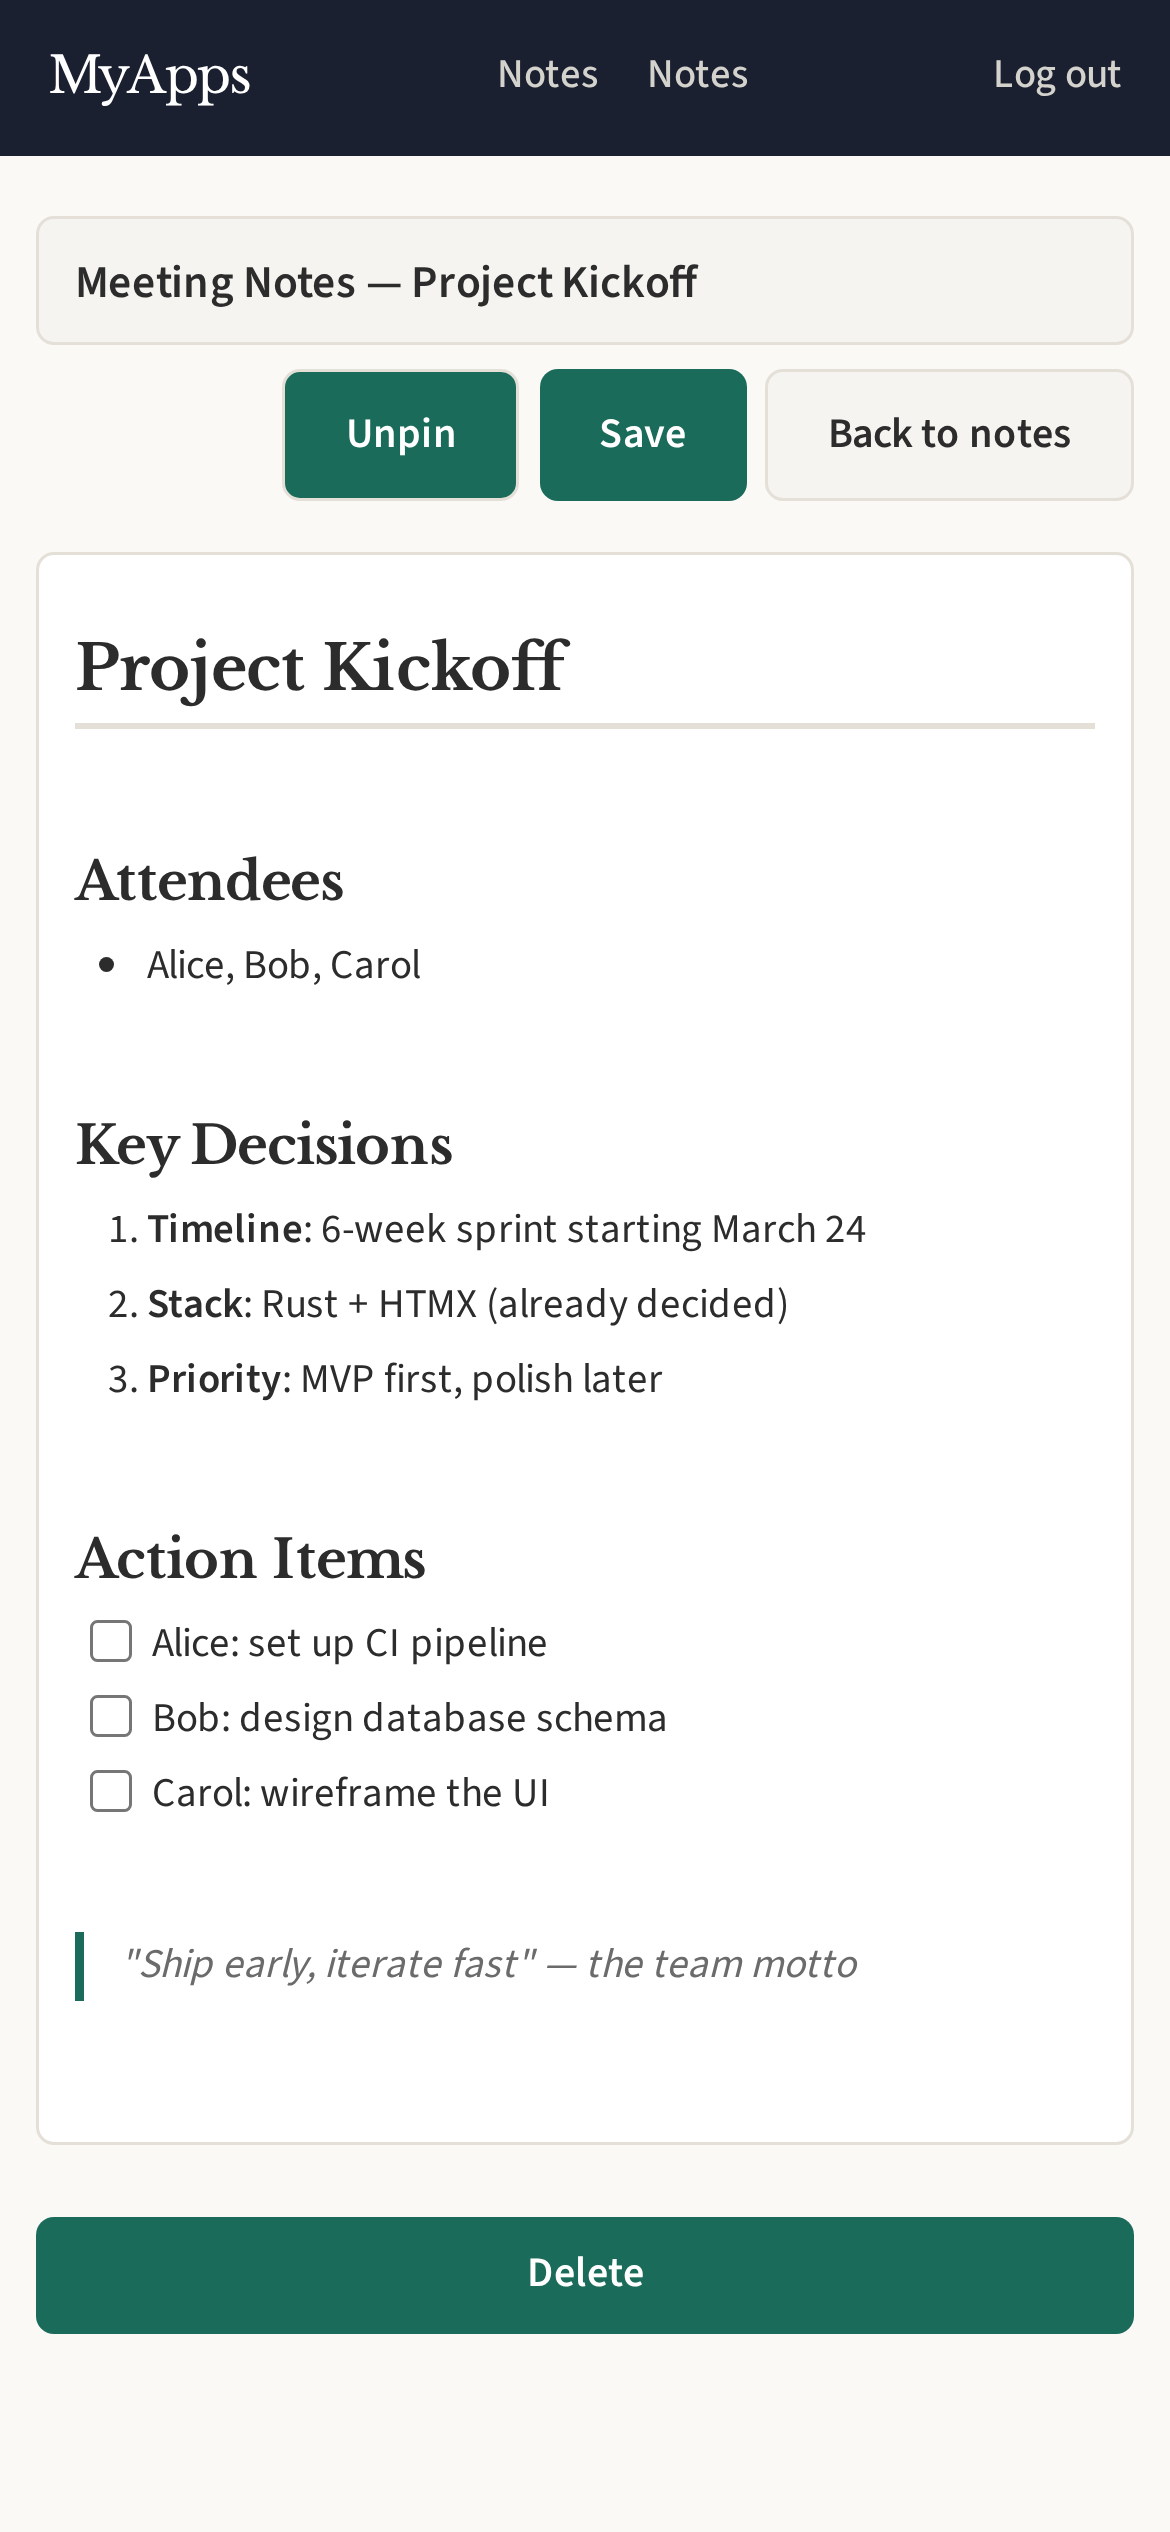
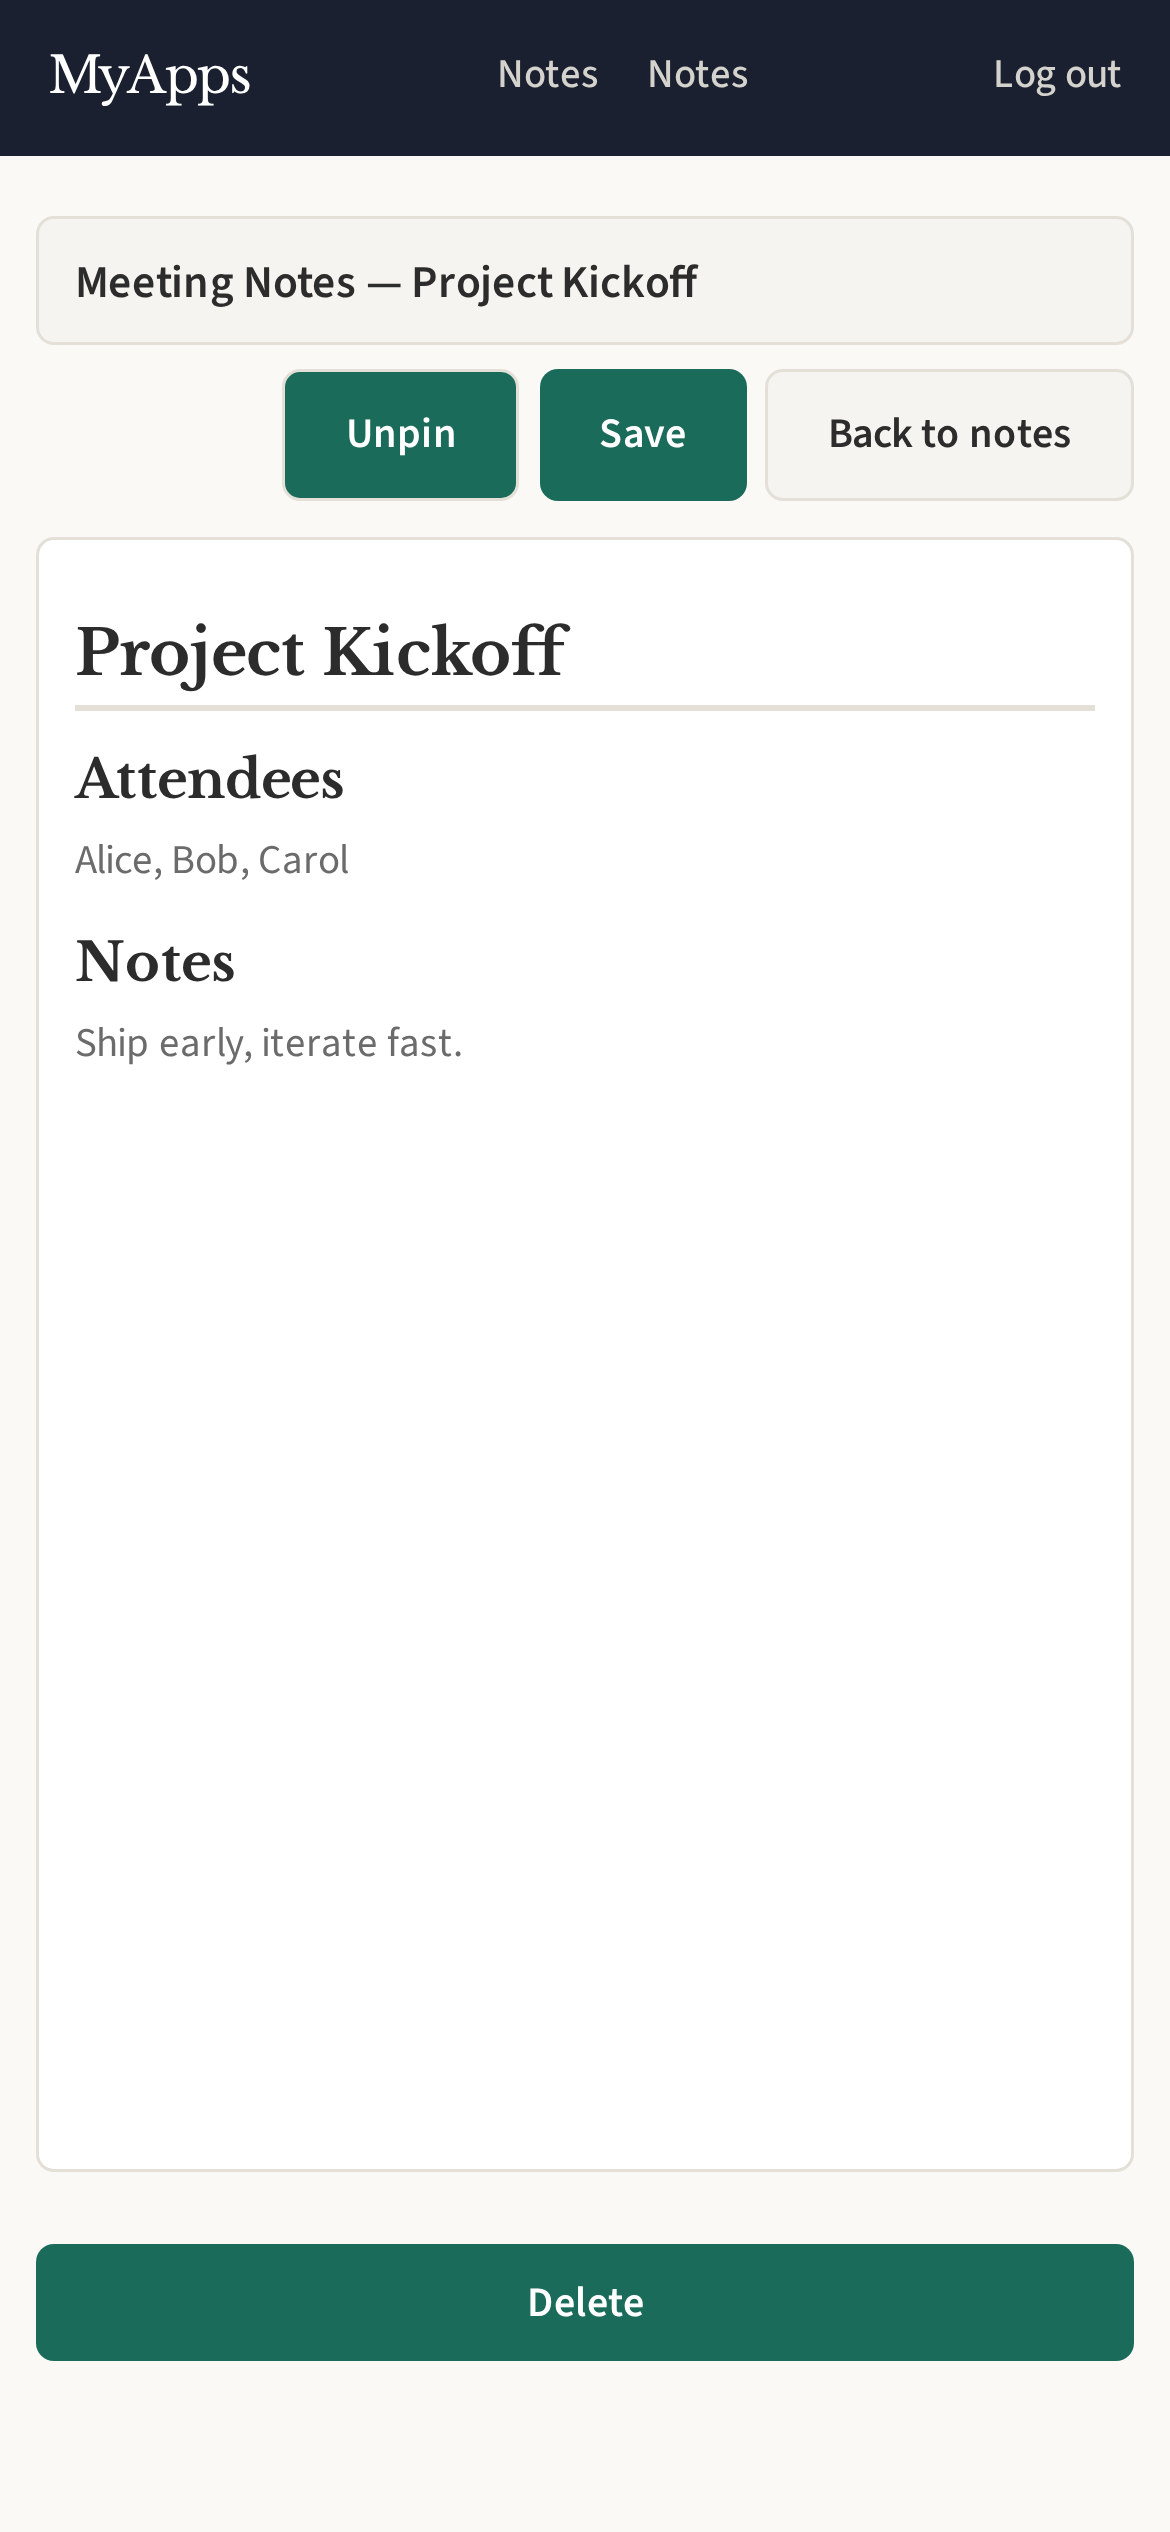
Update frontend tests and screenshots for Notes offline mode
The editor page now mounts Tiptap into an empty #notes-editor, so the
screenshot script types demo markdown into the editor before snapping
to keep the README image informative. Existing integration tests were
already updated as part of the Phase 4 editor swap.

diff --git a/scripts/screenshots.ts b/scripts/screenshots.ts
@@ -125,11 +125,19 @@ test.describe("README screenshots", () => {
     await page.goto(`${BASE_URL}/notes`);
     await snap(page, "notes-list");
 
-    // Open the first note for editing (click the first note link).
+    // Open the first note for editing. The editor is now Tiptap+Yjs and
+    // mounts client-side into an empty #notes-editor, so we wait for the
+    // .ProseMirror class Tiptap adds and type demo content into it before
+    // capturing — otherwise the screenshot would be an empty box.
     const firstNote = page.locator('a[href^="/notes/"]').first();
     if (await firstNote.isVisible()) {
       await firstNote.click();
-      await page.waitForTimeout(800); // Wait for editor to initialize.
+      await page.waitForSelector(".ProseMirror", { timeout: 8000 });
+      await page.click(".ProseMirror");
+      await page.keyboard.type(
+        "# Project Kickoff\n## Attendees\nAlice, Bob, Carol\n## Notes\nShip early, iterate fast.",
+      );
+      await page.waitForTimeout(500);
       await snap(page, "notes-editor");
     }
   });
